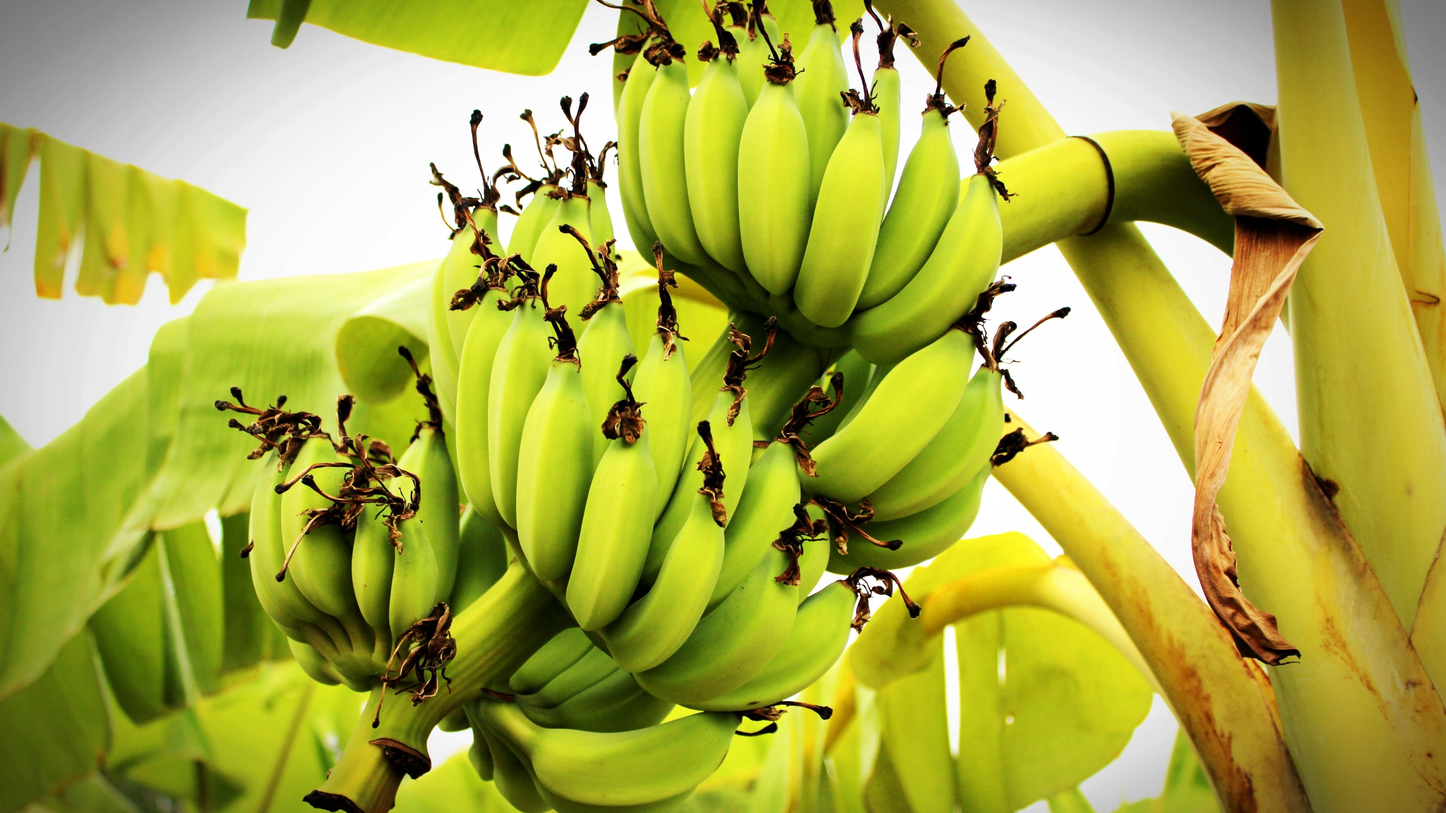
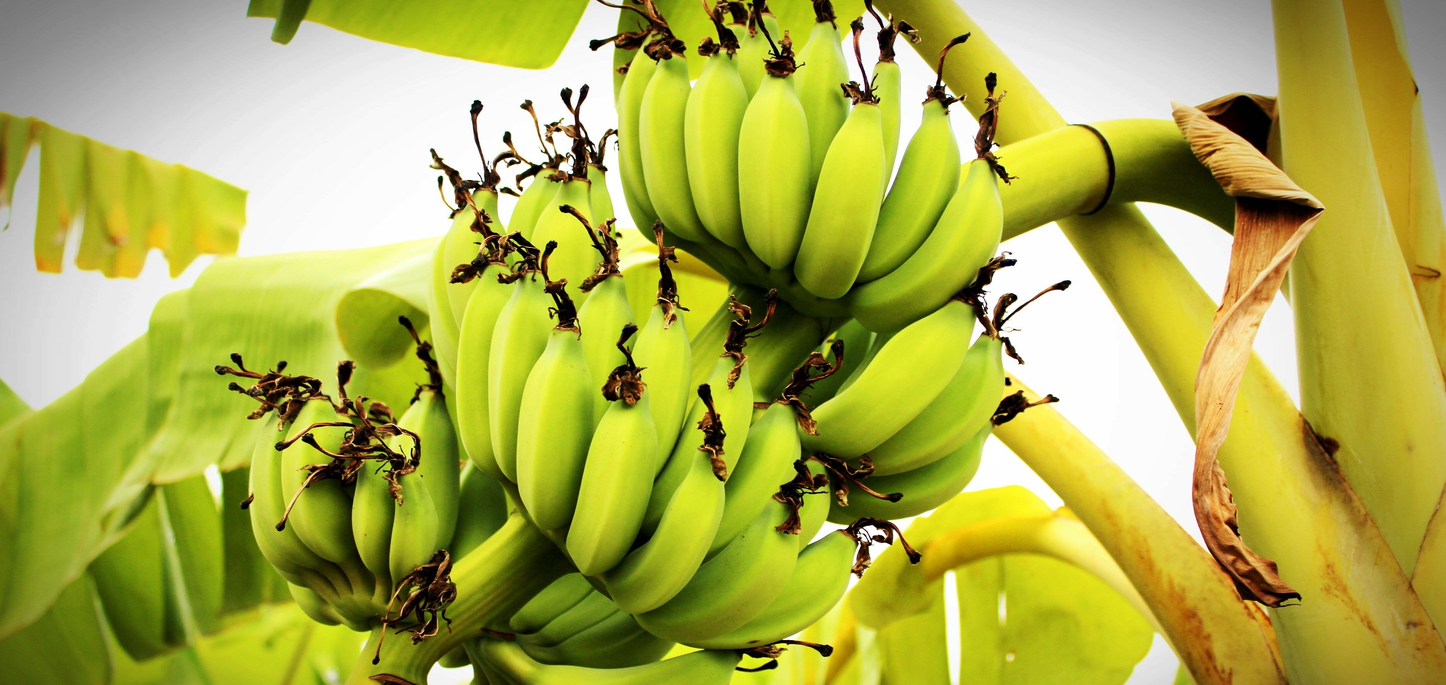
updated home

diff --git a/about.html b/about.html
@@ -67,18 +67,13 @@
 							  <div class="card-body">
 								    <h5 class="card-title ptsans-subtitle">About Us</h5>
 								    <!-- <h6 class="card-subtitle mb-2 text-muted">Card subtitle</h6> -->
-								    <p class="card-text text-justify"> Chinahs's Garden started out from our love of good food and farming. On the 11th of August 2015, Chinah and friends thought of a way to address this interest - right there and then - on a whim - the idea of having a farm to table project was the ultimate answer.   
-								    tempor incididunt ut labore et dolore magna aliqua. Ut enim ad minim veniam,
-								    quis nostrud exercitation ullamco laboris nisi ut aliquip ex ea commodo
-								    consequat. Duis aute irure dolor in reprehenderit in voluptate velit esse
-								    cillum dolore eu fugiat nulla pariatur. Excepteur sint occaecat cupidatat non
-								    proident, sunt in culpa qui officia deserunt mollit anim id est laborum.</p>
-								    <p class="text-justify">Lorem ipsum dolor sit amet, consectetur adipisicing elit, sed do eiusmod
-								    tempor incididunt ut labore et dolore magna aliqua. Ut enim ad minim veniam,
-								    quis nostrud exercitation ullamco laboris nisi ut aliquip ex ea commodo
-								    consequat. Duis aute irure dolor in reprehenderit in voluptate velit esse
-								    cillum dolore eu fugiat nulla pariatur. Excepteur sint occaecat cupidatat non
-								    proident, sunt in culpa qui officia deserunt mollit anim id est laborum.</p>
+								    <p class="card-text text-justify"> Chinah, owner of Chinah's Garden, was born and raised in the North Valley of Albuquerque. Chinah developed an early appreciation for good food grown from the land and lovingly prepared for the dinner table at her grandparents' home nearby.</p>
+
+									<p class="card-text text-justify">From her grandparents' small garden and orchard, trees yielded fresh fruit that was processed into jams, jellies, and fruit leathers. Processing was also done with tomatoes, cherries, grapes, squash, chile – everything grown on the small property. Throughout the year, these treasures were taken from the root cellar and freezer to be transformed into delicious creations. Yearly family gatherings to make empanadas and tamales were special times in grandma's kitchen, and the tradition continues with Cherie and her family.</p>
+
+									<p class="card-text text-justify"> Traditions endure. Chinah's father continued to hold respect and honor for the land and water that his grandfather instilled in him when he was just a boy. Jose took these skills his grandfather taught him and began to farm small plots of family land in the North Valley in the 1970's. Jose still farms several acres in the area... including the alfalfa farm behind the restaurant.</p>
+
+									
 							  </div>
 						</div>	
 					</div>				
@@ -88,11 +83,11 @@
 
 		</article> <!-- end article-aboutus -->
 
-		<article id="mission-vision">
+		<article id="article-values">
 			
 			<div class="row my-4">
 					<div class="col-lg-6">
-						<img class="img-fluid" src="assets/images/house.jpeg">
+						<img class="img-fluid" src="assets/images/farmers.jpg">
 					</div>	
 
 					
@@ -100,19 +95,28 @@
 						<div class="container-fluid">
 							<div class="card w-100 mt-3">
 								  <div class="card-body">
-									    <h5 class="card-title ptsans-subtitle">Mission</h5>
+									    <h5 class="card-title ptsans-subtitle">Our Values</h5>
 									    <!-- <h6 class="card-subtitle mb-2 text-muted">Card subtitle</h6> -->
-									    <p class="card-text text-justify">Some quick example text to build on the card title and make up the bulk of the card's content. Lorem ipsum dolor sit amet, consectetur adipisicing elit, sed do eiusmo  tempor incididunt ut labore et dolore magna aliqua. .</p>
+									    <p class="card-text text-justify"><strong>Local Food.</strong> We conscientiously design our seasonal menu around locally-sourced ingredients.</p>
+
+										<p class="card-text text-justify"><strong>Respect.</strong> We honor the many individuals that make our experience possible – from the hard-working folks who pick our produce in the field to the person who serves each plate.</p>
+
+										<p class="card-text text-justify"><strong>Hospitality.</strong> We value each and every guest who walks through our door and strive to offer a great experience for all: fresh delicious food, beautiful setting, and great service.</p>
+
+										<p class="card-text text-justify"><strong>Community.</strong> We celebrate our community! Chefs, farmers, artists, musicians, scholars, families, organizations, worthy causes, and lots of creative individuals will come together here at Farm & Table to build a vibrant community hub. See schedule for upcoming events.</p>
+
+
 									
 								  </div>
 							</div>	
 
 							<div class="card w-100 mt-3">
 								  <div class="card-body">
-									    <h5 class="card-title ptsans-subtitle">Vision</h5>
-									    <!-- <h6 class="card-subtitle mb-2 text-muted">Card subtitle</h6> -->
-									    <p class="card-text text-justify">Some quick example text to build on the card title and make up the bulk of the card's content. Lorem ipsum dolor sit amet, consectetur adipisicing elit, sed do eiusmo tempor incididunt ut labore et dolore magna aliqua.</p>
-									  
+									    <!-- <h5 class="card-title ptsans-subtitle">Mi casa es su casa</h5> -->
+								
+									    <!-- <p class="card-text text-justify">At Chinah's Garden we embrace not only local food but our local community as well... Art, music and special events play in harmoniously with the unique experience. Chinah's Garden is also committed to supporting non-profit organizations and social causes, and we do so in many ways throughout the year.</p> -->
+									  <p class="card-text text-justify">This deep love and respect for land, water, food, and community led to Chinah's creation of Chinah's Garden. Chinah, along with her wonderful family, bring the labor of love that is Chinah's Garden to you. We hope you will enjoy the experience as much as we love providing it to you.</p>
+								    
 								  </div>
 							</div>	
 						</div>

diff --git a/assets/css/style.css b/assets/css/style.css
@@ -158,6 +158,33 @@ a:hover {
 	color: purple;
 }
 
+.btn-chinah {
+font-family: 'PT Sans', sans-serif;
+background-color: #83db5e;
+color: white;
+}
+
+.btn-chinah:hover {
+background-color: #72bb53;
+color: white;
+}
+
+.btn-outline-chinah {
+font-family: 'PT Sans', sans-serif;
+background-color: white;
+color:  #72bb53;
+border: 1px solid #72bb53;
+}
+
+.btn-outline-chinah:hover {
+background-color: #72bb53;
+color:  white;
+border: 1px solid #72bb53;
+}
+
+.form-control:focus {
+	border: 4px solid rgba(114, 187, 83, .5);
+}
 /*end nav here ------------------------------*/
 
 /*-----------------------------------------article--------------------------------- */
@@ -222,7 +249,20 @@ footer {
 
 }
 
+#carousel-homepage {
+	margin-top: 6.7em;
+	height: 770px;
+	/*border: 2px solid red;*/
+}
 
+.carousel-photo-main {
+	height: 80vh;
+}
+
+#footer-fixed {
+	width: 79%;
+	margin: 0 auto;
+}
 /*end footer here-------------------------------------*/
 
 /*#################################----------------------END MAIN PAGE HERE--------------------------------------------###########################*/
@@ -320,6 +360,10 @@ footer {
 	color: white;
 }
 
+.image-modal-meals {
+	/*width: 50vh;*/
+}
+
 
 /*#################################----------------------MEALS PAGE ENDS HERE-----------------------------------------------###########################*/
 
@@ -328,6 +372,10 @@ footer {
 	margin-top: 5em;
 }
 
+#article-aboutus .card, #article-values .card {
+	border: none;
+	margin: none;
+}
 /*#our-house-box-img {
 	order: 2;
 }
@@ -341,6 +389,8 @@ footer {
 
 /*#################################----------------------ABOUT US PAGE ENDS HERE-----------------------------------------------###########################*/
 /*#################################----------------------CONTACT US PAGE STARTS HERE--------------------------------------------###########################*/
+
+
 
 #article-contact-form {
 	margin-top: 5.5em;
@@ -376,6 +426,16 @@ footer {
 #mailing-list-form {
 	margin-top: 5em;
 }
+
+#btn-submit-maillist {
+	height: 2.4em;
+}
+
+.list-group-item {
+		font-family: 'PT Sans', sans-serif;
+		color: #404040;
+}
+
 /*#################################----------------------CONTACT US PAGE ENDS HERE-----------------------------------------------###########################*/
 
 
@@ -492,6 +552,9 @@ padding-bottom: 7em;
 .produce-price, .produce-addtl-info{
 	font-size: .8em;
 }
+
+
+
 
 } /*end of mobile media*/
 

diff --git a/contact.html b/contact.html
@@ -71,7 +71,7 @@
 							      </div>
 						    </div>
 						    <div class="col-lg-4 mb-2">
-	      							  <select class="custom-select" id="select-option-form">
+	      							  <select class="custom-select form-control" id="select-option-form">
 								        <option selected>Choose...</option>
 								        <option value="1">Inquiry</option>
 								        <option value="2">Reservation</option>
@@ -95,7 +95,7 @@
 						    </div>					    
 
 						    <div class="form-group col-lg-12">
-								  <button type="submit" class="btn btn-outline-info">Submit</button>
+								  <button type="submit" class="btn btn-outline-chinah">Submit</button>
 						    </div>
 
 						</div>
@@ -130,16 +130,16 @@
 					<div id="mailing-list-form">
 					<h3 class="mb-3 ptsans-subtitle">Be part of our mailing list..</h3>
 
-					<form class="form-inline">
-						  <!-- <div class="form-group mb-2"> -->
-							    <!-- <label for="staticEmail2" class="sr-only">Email</label> -->
-							    <!-- <input type="text" readonly class="form-control-plaintext" id="staticEmail2" value="email@example.com"> -->
-						  <!-- </div> -->
-						  <div class="form-group  mb-2">
-							    <label for="email-mail-list" class="input-group-text"><i class="far fa-envelope"></i></label>
-							    <input type="email" class="form-control" id="email-mail-list" placeholder="email" required="">
-						  </div>
-						  <button type="submit" class="btn btn btn-outline-info mb-2 ml-2">submit</button>
+					<form>
+						
+						<div class="input-group">
+								        <div class="input-group-prepend">
+									           <label for="email-chn"><div class="input-group-text"><i class="far fa-envelope"></i></div></label>
+								        </div>
+								        <input type="email" class="form-control" id="email-chn" placeholder="Your Email Here" required="">
+								       <button id="btn-submit-maillist" type="submit" class="btn btn btn-outline-chinah ml-2">Submit</button>
+							      </div>
+								
 					</form>
 					</div>
 

diff --git a/meals.html b/meals.html
@@ -108,7 +108,7 @@
 			<div class="container-fluid">
 				<div class="row">
 					<!-- 1st Menu item -->
-					<div class="col-lg-3 col-md-5 col-12 mt-3">
+					<div class="col-lg-3 col-md-5 col-12 mt-3" data-toggle="modal" data-target="#modal-meals-1">
 						<img class="meals-menu-photo img-fluid" src="assets/images/meals-menu-1.jpeg">
 					</div>
 					
@@ -239,7 +239,30 @@
 						</div>
 					</div>
 
+					<!-- MODAL CORNER -->
+					<div id="modal-meals-1" class="modal fade">
+						<div class="modal-dialog" role="document">
+							<div class="modal-content">
+								<div class="modal-header">
+									<h5 class="modal-title">Avocado Toast</h5>
+									<button type="button" class="close" data-dismiss="modal"><span aria-hidden="true">&times;</span></button>
+								</div>
 
+								<div class="modal-body">
+									<img class="img-fluid image-modal-meals" src="assets/images/meals-menu-1.jpeg">
+									<p>Made from our very own avocadoes from the garden. Avocadoes are mashed to just the right texture- not too fine just enough to still get a bit of munch. Topped with scrambled egg and garnished with a bit of horse raddish, pepper, and kale. Used freshly baked wheat bread to make it perfect.</p>
+								</div>
+								
+								<div class="modal-footer">
+									<button class="btn btn-chinah" data-dismiss="modal">Close</button>
+								</div>
+							</div>
+
+						</div>
+						
+
+					</div>
+					<!-- END OF MODAL -->
 
 				</div><!-- end of row -->
 

diff --git a/home.html b/home.html
@@ -119,7 +119,7 @@
 
 			<!-- end of carousel here -->
 	
-			<footer>
+			<footer id="footer-fixed" class="fixed-bottom">
 				<div class="container-fluid">	
 					<div id="info-footer" class="row">
 						<div  class="col-lg-10 col-md-12 col-12 text-left">
